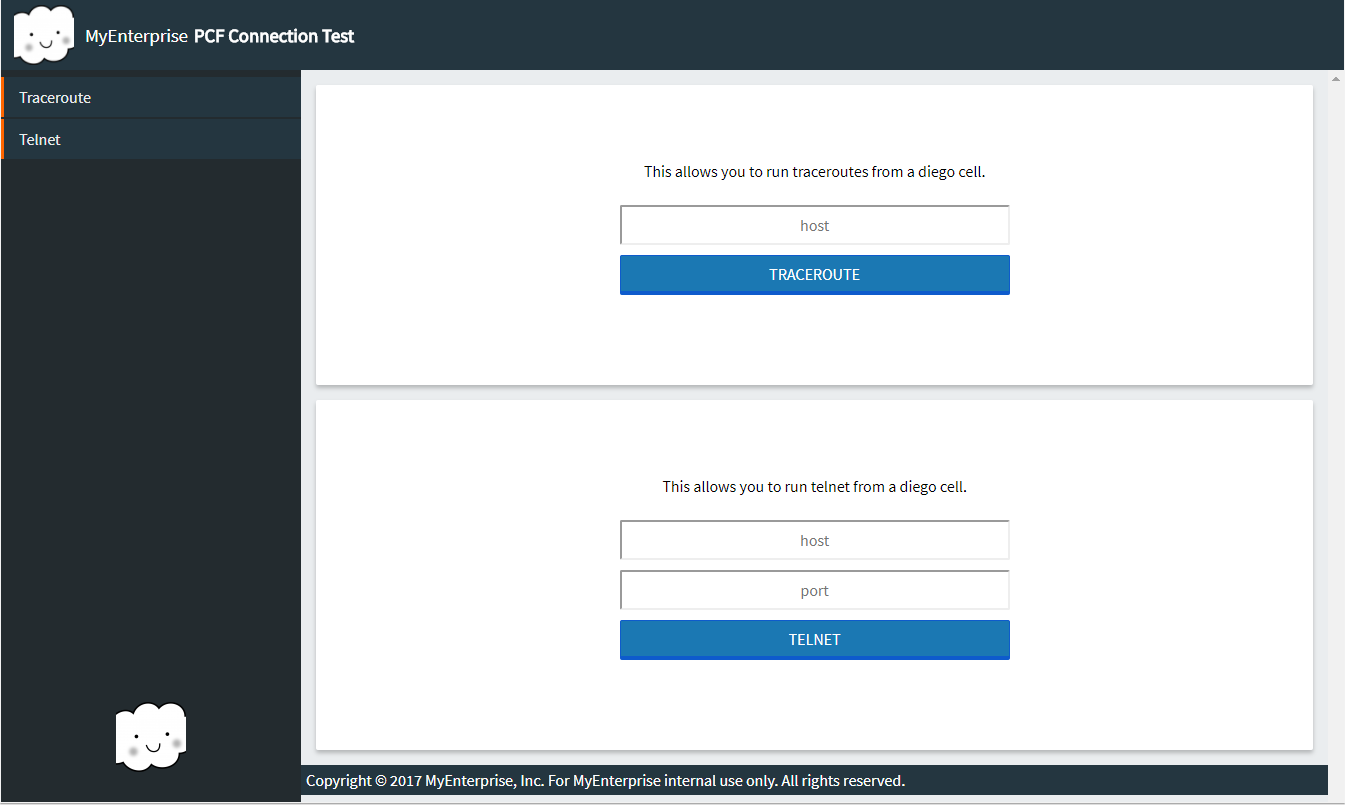
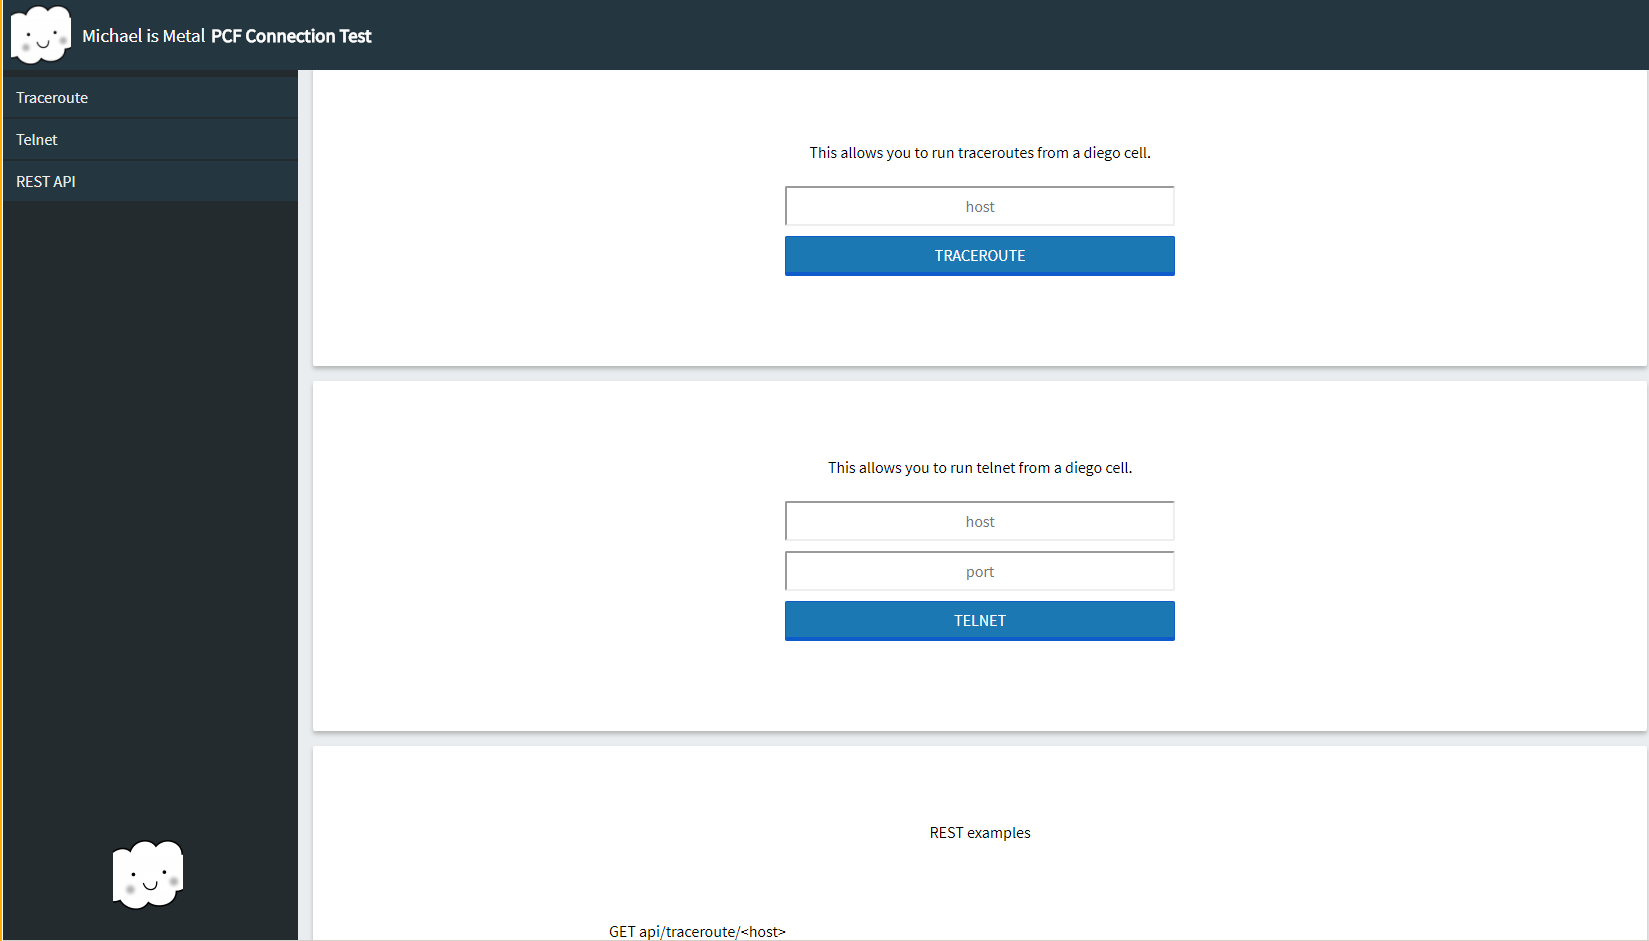
added REST instructions and change enterprise

Changed region(s): [[0.0, 0.0, 1.0, 1.0], [0.4684, 0.5901, 0.7182, 0.6832], [0.5621, 0.8696, 0.6245, 0.9006]]

diff --git a/templates/index.html b/templates/index.html
@@ -19,6 +19,7 @@
 			<ul>
 				<li class="nav-btn" id="traceroute"><a>Traceroute</a></li>
 				<li class="nav-btn" id="telnet"><a>Telnet</a></li>
+				<li class="nav-btn" id="REST"><a>REST API</a></li>
 			</ul>
 			<img class="enterprise-cloud-logo" src="{{ footerImg }}">
 		</nav>
@@ -42,6 +43,14 @@
 						<button id="telnet-btn" class="btn">telnet</button>
 					</div>
                                         <p class="response-body" id="response-body-telnet"></p>
+				</div>	
+			</div>
+			<div class="card" id="REST-card">
+				<div class="card-contents">
+					<div class="form-div">
+						<p>REST examples</p>
+					</div>
+                                        <p class="response-body" id="response-body-rest">javascript not loading</p>
 				</div>	
 			</div>
 			<footer>

diff --git a/static/js/main.js b/static/js/main.js
@@ -40,4 +40,10 @@ $('#telnet-btn').click(function() {
         },
 	dataType: 'json'
     });
-});
+}
+var localhost = window.location.hostname
+var restResponse = 'GET api/traceroute/&lthost&gt <br>'
+restResponse += 'curl "https://' + localhost + '/api/traceroute/' + localhost + '"<br>'
+restResponse += 'GET api/telnet/&lthost&gt/&ltport&gt <br>'
+restResponse += 'curl "https://' + localhost + '/api/telnet/' + localhost + '/443"'
+$('#response-body-rest').html(restResponse););

diff --git a/main.py b/main.py
@@ -11,17 +11,17 @@ port = int(getenv("PORT",8081))
 
 @app.route('/')
 def root():
-	enterprise = 'MyEnterprise'
+	enterprise = 'Michael is Metal'
[1 lines of base64/hex data omitted]
 	footerImg = headerImg
-	indexComment = ''' <!-- @Author: Michael Hug (Michael.Hug@fiserv.com) -->
+	indexComment = ''' <!-- @Author: Michael Hug (mrhhug at g mail) -->
 <!--
-   _____         ___________       __                            .__               
-  /     \ ___.__.\_   _____/ _____/  |_  ________________________|__| ______ ____  
- /  \ /  <   |  | |    __)_ /    \   __\/ __ \_  __ \____ \_  __ \  |/  ___// __ \ 
-/    Y    \___  | |        \   |  \  | \  ___/|  | \/  |_> >  | \/  |\___ \\  ___/ 
-\____|__  / ____|/_______  /___|  /__|  \___  >__|  |   __/|__|  |__/____  >\___  >
-      \/\/             \/     \/          \/      |__|                 \/     \/ 
+   _____  .__       .__                  .__    .__            _____          __         .__   
+  /     \ |__| ____ |  |__ _____    ____ |  |   |__| ______   /     \   _____/  |______  |  |  
+ /  \ /  \|  |/ ___\|  |  \\__  \ _/ __ \|  |   |  |/  ___/  /  \ /  \_/ __ \   __\__  \ |  |  
+/    Y    \  \  \___|   Y  \/ __ \\  ___/|  |__ |  |\___ \  /    Y    \  ___/|  |  / __ \|  |__
+\____|__  /__|\___  >___|  (____  /\___  >____/ |__/____  > \____|__  /\___  >__| (____  /____/
+        \/        \/     \/     \/     \/               \/          \/     \/          \/      
 -->'''
 	return render_template('index.html', enterprise=enterprise, headerImg=headerImg, footerImg=footerImg, indexComment=indexComment)
 

diff --git a/README.md b/README.md
@@ -1,6 +1,13 @@
 # canitconnect
-Network tools running as CloudFoundry apps
+Network tools running as CloudFoundry apps.
+- Traceroute relys on the linux subsystem
+- Telnet is implemented in pure python
+- REST API for our CLI happy people.... or machines.
 
 Branding is done inside main.py
+- indexComment => implement your own html comment <!-- your ascii art -->
+- footerImg => base64 encoded image. Mine looks alright at 192 x 52 px
+- headerImg => base64 encoded image. Mine looks alright at 60 x 60 px
+- enterprise => The name of your corp, enterprise, or puppy
 
 ![Screenshot](https://raw.githubusercontent.com/mrhhug-Fiserv/canitconnect/master/static/img/canitconnect.PNG)
